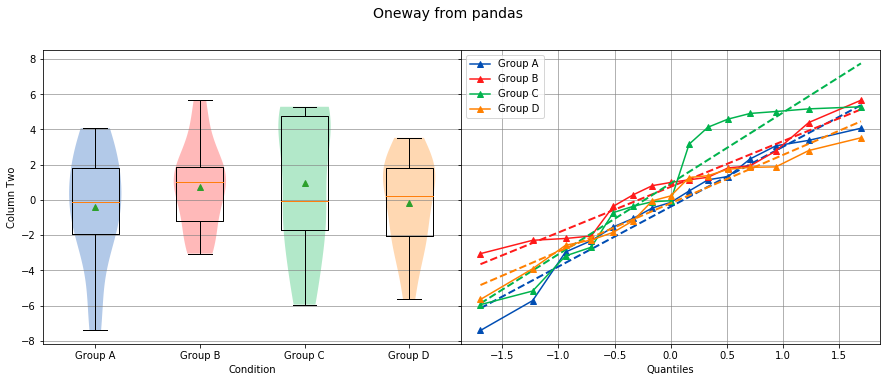
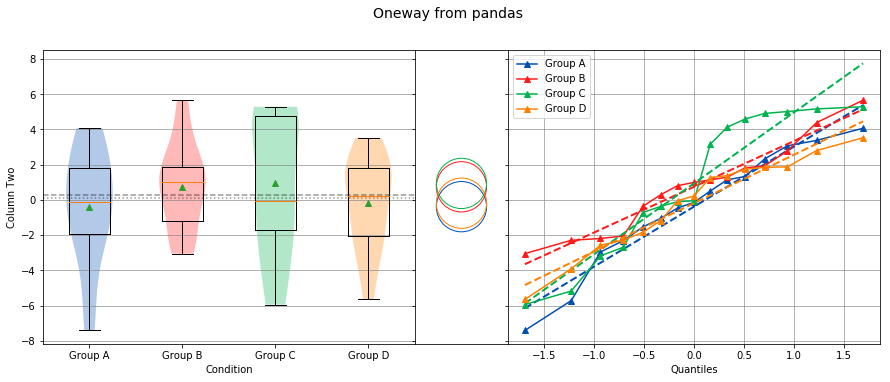
Documentation updates for release 2.1.0

diff --git a/setup.py b/setup.py
@@ -5,7 +5,7 @@ with open('README.rst', 'r') as readme:
 
 setup(
     name='sci_analysis',
-    version='2.1.0rc4',
+    version='2.1.0',
     packages=find_packages(),
     url='https://github.com/cmmorrow/sci-analysis',
     license='MIT License',

diff --git a/docs/index.rst b/docs/index.rst
@@ -14,7 +14,7 @@ An easy to use and powerful python-based data exploration and analysis tool
 Current Version
 ---------------
 
-2.0 --- Released December 31, 2017
+2.1 --- Released March 30, 2018
 
 What is sci_analysis?
 =====================
@@ -23,14 +23,15 @@ sci_analysis is a python package for quickly performing statistical data analysi
 
 The types of analysis that can be performed are histograms of numeric or categorical data, bivariate analysis of two numeric data vectors, and one-way analysis of variance.
 
-What's new in sci_analysis version 2.0?
+What's new in sci_analysis version 2.1?
 =======================================
 
-* In version 2.0, the code base was re-factored to use pandas as the internal data structure instead of numpy. This change shouldn't have a noticeable effect, but should lead to faster releases moving forward. 
-* Categorical data is now supported by passing in a single array of string values to the ``analyze`` function. 
-* Multiple scatter plots can now be shown on the same graph by passing in a *groups* argument.
-* Oneway analysis can now be performed on stacked data by passing in all the data to the ``analyze`` function and an array of the corresponding groups using the *groups* argument.
-* The function ``analyse`` was added as an alias to ``analyze``.
+* Version 2.1 makes improvements to Statistical output and plots.
+* Tukey-Kramer circles were added to the Oneway analysis plot.
+* Grand Mean and Grand Median were added to the Oneway analysis plot.
+* Overall Statistics were added to Oneway analysis.
+* Overall Statistics were added to Categorical analysis.
+* The Categorical analysis graph was changed to improve the appearance.
 
 Getting started with sci_analysis
 =================================
@@ -150,16 +151,23 @@ A histogram and printed output similar to that below should be shown:
 
 ::
     
+    Overall Statistics
+    ------------------
+
+    Total            =  11
+    Number of Groups =  5
+
+
     Statistics
     ----------
-    
-    Rank          Frequency     Percent       Category      
+
+    Rank          Frequency     Percent       Category
     --------------------------------------------------------
-    1             4              36.3636      dog           
-    2             3              27.2727      cat           
-    3             2              18.1818      rabbit        
+    1             4              36.3636      dog
+    2             3              27.2727      cat
+    3             2              18.1818      rabbit
     4             1              9.0909       hamster
-    4             1              9.0909       rat           
+    4             1              9.0909       rat
 
 Let's examine the ``analyze`` function in more detail. Here's the signature for the ``analyze`` function:
 
@@ -237,34 +245,45 @@ If ``xdata`` is supplied as a dictionary, the keys are the names of the groups a
 
 ::
     
+    Overall Statistics
+    ------------------
+
+    Number of Groups =  4
+    Total            =  145
+    Grand Mean       =  0.0598
+    Pooled Std Dev   =  1.0992
+    Grand Median     =  0.0741
+
+
     Group Statistics
     ----------------
- 
-    n             Mean          Std Dev       Min           Median        Max           Group         
+
+    n             Mean          Std Dev       Min           Median        Max           Group
     --------------------------------------------------------------------------------------------------
-    50            -0.0891        1.1473       -2.4036       -0.2490        2.2466       Group A       
-    25             0.2403        0.9181       -1.8853        0.3791        1.6715       Group B       
-    30            -0.1282        1.0652       -2.4718       -0.0266        1.7617       Group C       
-    40             0.2159        1.1629       -2.2678        0.1747        3.1400       Group D       
- 
- 
+    50            -0.0891        1.1473       -2.4036       -0.2490        2.2466       Group A
+    25             0.2403        0.9181       -1.8853        0.3791        1.6715       Group B
+    30            -0.1282        1.0652       -2.4718       -0.0266        1.7617       Group C
+    40             0.2159        1.1629       -2.2678        0.1747        3.1400       Group D
+
+
     Bartlett Test
     -------------
- 
+
     alpha   =  0.0500
     T value =  1.8588
     p value =  0.6022
- 
+
     H0: Variances are equal
- 
- 
+
+
+
     Oneway ANOVA
     ------------
- 
+
     alpha   =  0.0500
     f value =  1.0813
     p value =  0.3591
- 
+
     H0: Group means are matched
 
 In the example above, sci_analysis is telling us the four groups are normally distributed (by use of the Bartlett Test, Oneway ANOVA and the near straight line fit on the quantile plot), the groups have equal variance and the groups have matching means. The only significant difference between the four groups is the sample size we specified. Let's try another example, but this time change the variance of group B:
@@ -282,15 +301,25 @@ In the example above, sci_analysis is telling us the four groups are normally di
 
 ::
     
+    Overall Statistics
+    ------------------
+
+    Number of Groups =  4
+    Total            =  145
+    Grand Mean       =  0.2049
+    Pooled Std Dev   =  1.5350
+    Grand Median     =  0.1241
+
+
     Group Statistics
     ----------------
 
-    n             Mean          Std Dev       Min           Median        Max           Group         
+    n             Mean          Std Dev       Min           Median        Max           Group
     --------------------------------------------------------------------------------------------------
-    50            -0.0891        1.1473       -2.4036       -0.2490        2.2466       Group A       
-    25             0.7209        2.7543       -5.6558        1.1374        5.0146       Group B       
-    30            -0.0282        1.0652       -2.3718        0.0734        1.8617       Group C       
-    40             0.2159        1.1629       -2.2678        0.1747        3.1400       Group D       
+    50            -0.0891        1.1473       -2.4036       -0.2490        2.2466       Group A
+    25             0.7209        2.7543       -5.6558        1.1374        5.0146       Group B
+    30            -0.0282        1.0652       -2.3718        0.0734        1.8617       Group C
+    40             0.2159        1.1629       -2.2678        0.1747        3.1400       Group D
 
 
     Bartlett Test
@@ -330,15 +359,25 @@ In another example, let's compare groups that have different distibutions and di
 
 ::
     
+    Overall Statistics
+    ------------------
+
+    Number of Groups =  4
+    Total            =  145
+    Grand Mean       = -0.0694
+    Pooled Std Dev   =  1.4903
+    Grand Median     = -0.1148
+
+
     Group Statistics
     ----------------
 
-    n             Mean          Std Dev       Min           Median        Max           Group         
+    n             Mean          Std Dev       Min           Median        Max           Group
     --------------------------------------------------------------------------------------------------
-    50            -0.0891        1.1473       -2.4036       -0.2490        2.2466       Group A       
-    25             0.7209        2.7543       -5.6558        1.1374        5.0146       Group B       
-    30            -1.0340        0.8029       -2.7632       -0.7856       -0.0606       Group C       
-    40             0.1246        1.1081       -1.9334        0.0193        3.1400       Group D       
+    50            -0.0891        1.1473       -2.4036       -0.2490        2.2466       Group A
+    25             0.7209        2.7543       -5.6558        1.1374        5.0146       Group B
+    30            -1.0340        0.8029       -2.7632       -0.7856       -0.0606       Group C
+    40             0.1246        1.1081       -1.9334        0.0193        3.1400       Group D
 
 
     Levene Test
@@ -525,15 +564,25 @@ Let's start with an example. The following code will perform a Oneway analysis u
 
 ::
 
+    Overall Statistics
+    ------------------
+
+    Number of Groups =  4
+    Total            =  60
+    Grand Mean       =  0.2740
+    Pooled Std Dev   =  3.1385
+    Grand Median     =  0.0853
+
+
     Group Statistics
     ----------------
 
-    n             Mean          Std Dev       Min           Median        Max           Group         
+    n             Mean          Std Dev       Min           Median        Max           Group
     --------------------------------------------------------------------------------------------------
-    15            -0.3873        3.2660       -7.4153       -0.1489        4.0653       Group A       
-    15             0.7406        2.4806       -3.0538        0.9879        5.6546       Group B       
-    15             0.9334        3.9554       -5.9492       -0.0510        5.2850       Group C       
-    15            -0.1906        2.6335       -5.6558        0.2217        3.5229       Group D       
+    15            -0.3873        3.2660       -7.4153       -0.1489        4.0653       Group A
+    15             0.7406        2.4806       -3.0538        0.9879        5.6546       Group B
+    15             0.9334        3.9554       -5.9492       -0.0510        5.2850       Group C
+    15            -0.1906        2.6335       -5.6558        0.2217        3.5229       Group D
 
 
     Bartlett Test
@@ -571,15 +620,25 @@ If instead the four columns One, Two, Three and Four are to be analyzed, the eas
 
 ::
 
+    Overall Statistics
+    ------------------
+
+    Number of Groups =  4
+    Total            =  240
+    Grand Mean       = -0.1994
+    Pooled Std Dev   =  1.7536
+    Grand Median     = -0.0572
+
+
     Group Statistics
     ----------------
 
-    n             Mean          Std Dev       Min           Median        Max           Group         
+    n             Mean          Std Dev       Min           Median        Max           Group
     --------------------------------------------------------------------------------------------------
-    60            -0.1006        0.9761       -2.2349       -0.0917        1.6386       Four          
-    60            -0.0562        1.0779       -2.4036       -0.0228        2.2466       One           
-    60            -0.9148        0.7104       -2.9286       -0.6900       -0.0024       Three         
-    60             0.2740        3.1115       -7.4153        0.3968        5.6546       Two           
+    60            -0.1006        0.9761       -2.2349       -0.0917        1.6386       Four
+    60            -0.0562        1.0779       -2.4036       -0.0228        2.2466       One
+    60            -0.9148        0.7104       -2.9286       -0.6900       -0.0024       Three
+    60             0.2740        3.1115       -7.4153        0.3968        5.6546       Two
 
 
     Levene Test
@@ -650,15 +709,25 @@ Using the new function is simple. The same techniques from previous examples are
 
 ::
 
+    Overall Statistics
+    ------------------
+
+    Number of Groups =  4
+    Total            =  60
+    Grand Mean       =  0.2740
+    Pooled Std Dev   =  3.1561
+    Grand Median     =  0.5138
+
+
     Group Statistics
     ----------------
 
-    n             Mean          Std Dev       Min           Median        Max           Group         
+    n             Mean          Std Dev       Min           Median        Max           Group
     --------------------------------------------------------------------------------------------------
-    15             0.9138        3.7034       -7.4153        0.8059        5.6546       Q1            
-    15             0.0122        2.5243       -5.6558        1.1374        4.0653       Q2            
-    15             0.4987        3.4778       -5.7216        0.2217        5.2850       Q3            
-    15            -0.3286        2.7681       -5.9492       -0.0537        3.5229       Q4            
+    15             0.9138        3.7034       -7.4153        0.8059        5.6546       Q1
+    15             0.0122        2.5243       -5.6558        1.1374        4.0653       Q2
+    15             0.4987        3.4778       -5.7216        0.2217        5.2850       Q3
+    15            -0.3286        2.7681       -5.9492       -0.0537        3.5229       Q4
 
 
     Bartlett Test

diff --git a/README.md b/README.md
@@ -2,26 +2,27 @@
 An easy to use and powerful python-based data exploration and analysis tool
 
 ## Current Version:
-2.0 --- Released December 31, 2017
+2.1 --- Released March 30, 2018
 
 [![PyPI](https://img.shields.io/pypi/v/sci_analysis.svg)](https://pypi.python.org/pypi/sci_analysis)
 [![PyPI](https://img.shields.io/pypi/format/sci_analysis.svg)](https://pypi.python.org/pypi/sci_analysis)
 [![PyPI](https://img.shields.io/pypi/pyversions/sci_analysis.svg)](https://pypi.python.org/pypi/sci_analysis)
-[![Build Status](https://travis-ci.org/cmmorrow/sci-analysis.svg?branch=2.0.0)](https://travis-ci.org/cmmorrow/sci-analysis)
-[![Coverage Status](https://coveralls.io/repos/github/cmmorrow/sci-analysis/badge.svg?branch=2.0.0)](https://coveralls.io/github/cmmorrow/sci-analysis?branch=master)
+[![Build Status](https://travis-ci.org/cmmorrow/sci-analysis.svg?branch=2.1.0)](https://travis-ci.org/cmmorrow/sci-analysis)
+[![Coverage Status](https://coveralls.io/repos/github/cmmorrow/sci-analysis/badge.svg?branch=2.1.0)](https://coveralls.io/github/cmmorrow/sci-analysis?branch=master)
 
 ### What is sci-analysis?
 sci-analysis is a python package for quickly performing statistical data analysis. It provides a graphical representation of the supplied data as well as the statistical analysis. sci-analysis is smart enough to determine the correct analysis and tests to perform based on the shape of the data you provide, as well as how the data is distributed.
 
 The types of analysis that can be performed are histograms of numeric or categorical data, bivariate analysis of two numeric data vectors, and one-way analysis of variance.
 
-### What's new in sci-analysis version 2.0?
+### What's new in sci-analysis version 2.1?
 
-* In version 2.0, the code base was re-factored to use pandas as the internal data structure instead of numpy. This change shouldn't have a noticeable effect, but should lead to faster releases moving forward. 
-* Categorical data is now supported by passing in a single array of string values to the ```analyze``` function. 
-* Multiple scatter plots can now be shown on the same graph by passing in a *groups* argument.
-* Oneway analysis can now be performed on stacked data by passing in all the data to the ```analyze``` function and an array of the corresponding groups using the *groups* argument.
-* The function ```analyse``` was added as an alias to ```analyze```.
+* Version 2.1 makes improvements to Statistical output and plots.
+* Tukey-Kramer circles were added to the Oneway analysis plot.
+* Grand Mean and Grand Median were added to the Oneway analysis plot.
+* Overall Statistics were added to Oneway analysis.
+* Overall Statistics were added to Categorical analysis.
+* The Categorical analysis graph was changed to improve the appearance.
 
 ### Getting started with sci-analysis
 The documentation on how to install and use sci-analysis can be found here:

diff --git a/README.rst b/README.rst
@@ -8,7 +8,7 @@ An easy to use and powerful python-based data exploration and analysis tool
 Current Version
 ---------------
 
-2.0 --- Released December 31, 2017
+2.1 --- Released March 30, 2018
 
 .. image:: https://img.shields.io/pypi/v/sci_analysis.svg
    :target: https://pypi.python.org/pypi/sci_analysis
@@ -16,9 +16,9 @@ Current Version
    :target: https://pypi.python.org/pypi/sci_analysis
 .. image:: https://img.shields.io/pypi/pyversions/sci_analysis.svg
    :target: https://pypi.python.org/pypi/sci_analysis
-.. image:: https://travis-ci.org/cmmorrow/sci-analysis.svg?branch=2.0.0   
+.. image:: https://travis-ci.org/cmmorrow/sci-analysis.svg?branch=2.1.0
    :target: https://travis-ci.org/cmmorrow/sci-analysis
-.. image:: https://coveralls.io/repos/github/cmmorrow/sci-analysis/badge.svg?branch=2.0.0
+.. image:: https://coveralls.io/repos/github/cmmorrow/sci-analysis/badge.svg?branch=2.1.0
    :target: https://coveralls.io/github/cmmorrow/sci-analysis?branch=2.0.0
 
 What is sci-analysis?
@@ -31,11 +31,12 @@ The types of analysis that can be performed are histograms of numeric or categor
 What's new in sci-analysis version 2.0?
 ---------------------------------------
 
-* In version 2.0, the code base was re-factored to use pandas as the internal data structure instead of numpy. This change shouldn't have a noticeable effect, but should lead to faster releases moving forward. 
-* Categorical data is now supported by passing in a single array of string values to the ``analyze`` function. 
-* Multiple scatter plots can now be shown on the same graph by passing in a *groups* argument.
-* Oneway analysis can now be performed on stacked data by passing in all the data to the ``analyze`` function and an array of the corresponding groups using the *groups* argument.
-* The function ``analyse`` was added as an alias to ``analyze``.
+* Version 2.1 makes improvements to Statistical output and plots.
+* Tukey-Kramer circles were added to the Oneway analysis plot.
+* Grand Mean and Grand Median were added to the Oneway analysis plot.
+* Overall Statistics were added to Oneway analysis.
+* Overall Statistics were added to Categorical analysis.
+* The Categorical analysis graph was changed to improve the appearance.
 
 Getting started with sci-analysis
 ---------------------------------
